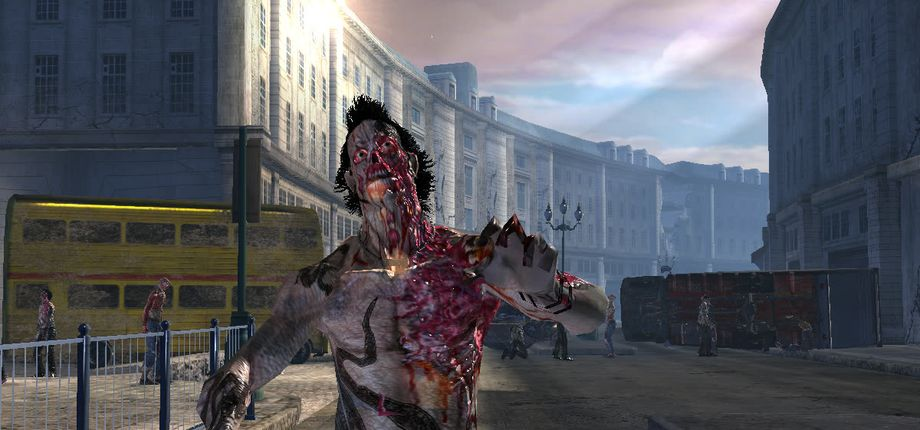
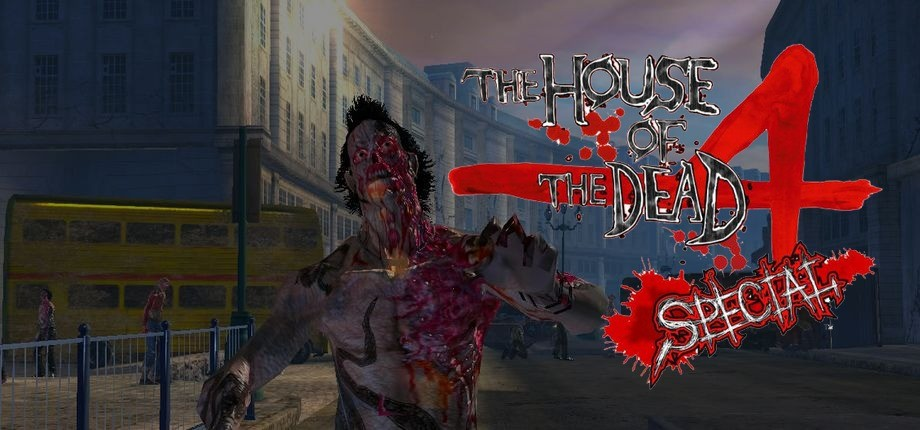
fix: SteamGridDB and arcade art for the five new port covers
The first covers were crops of screenshots, a launcher banner and a
trailer frame. Replace them with real capsule art:

- Ratchet & Clank, Forsaken, NFL Blitz 2000: SteamGridDB 920x430 capsules
  with no console branding
- Let's Go Jungle!: not on SteamGridDB; LaunchBox fanart with the game's
  clear logo
- HotD4 Special: the game's own Special logo (LaunchBox) over an in-game
  street scene, so it does not repeat the hotd4-vr cover

Same filenames, so COVER_CACHE_VERSION goes from 7 to 8.

diff --git a/tests/coverUrl.test.ts b/tests/coverUrl.test.ts
@@ -65,29 +65,29 @@ describe('resolveCoverUrl', () => {
 
 describe('coverThumbUrl', () => {
   it('points local covers at a small generated thumbnail', () => {
-    expect(coverThumbUrl('/covers/doom3quest.jpg')).toBe('/covers/thumbs/doom3quest.jpg?v=7')
-    expect(coverThumbUrl('/covers/halocequest.jpg')).toBe('/covers/thumbs/halocequest.jpg?v=7')
+    expect(coverThumbUrl('/covers/doom3quest.jpg')).toBe('/covers/thumbs/doom3quest.jpg?v=8')
+    expect(coverThumbUrl('/covers/halocequest.jpg')).toBe('/covers/thumbs/halocequest.jpg?v=8')
   })
 
   it('versions covers and can load them from an external media base', () => {
-    expect(versionedCoverUrl('/covers/nolf-vr.png')).toBe('/covers/nolf-vr.png?v=7')
+    expect(versionedCoverUrl('/covers/nolf-vr.png')).toBe('/covers/nolf-vr.png?v=8')
     expect(versionedCoverUrl(
       'https://ccjteoxolasldhfgnoyx.supabase.co/storage/v1/object/public/port-covers/nolf-vr.png'
-    )).toBe('/covers/nolf-vr.png?v=7')
+    )).toBe('/covers/nolf-vr.png?v=8')
     expect(versionedCoverUrl('/covers/nolf-vr.png', 'https://cdn.example.com/')).toBe(
-      'https://cdn.example.com/covers/nolf-vr.png?v=7'
+      'https://cdn.example.com/covers/nolf-vr.png?v=8'
     )
     expect(coverThumbUrl('/covers/doom3quest.jpg', 'https://cdn.example.com')).toBe(
-      'https://cdn.example.com/covers/thumbs/doom3quest.jpg?v=7'
+      'https://cdn.example.com/covers/thumbs/doom3quest.jpg?v=8'
     )
   })
 
   it('keeps absolute media-host covers versioned without double-prefixing', () => {
     const db = `${DEFAULT_MEDIA_BASE}/covers/doom3quest.jpg`
-    expect(versionedCoverUrl(db, DEFAULT_MEDIA_BASE)).toBe(`${DEFAULT_MEDIA_BASE}/covers/doom3quest.jpg?v=7`)
-    expect(versionedCoverUrl(db)).toBe('/covers/doom3quest.jpg?v=7')
-    expect(coverThumbUrl(db, DEFAULT_MEDIA_BASE)).toBe(`${DEFAULT_MEDIA_BASE}/covers/thumbs/doom3quest.jpg?v=7`)
-    expect(absoluteCoverUrl(db)).toBe('https://questports.com/covers/doom3quest.jpg?v=7')
+    expect(versionedCoverUrl(db, DEFAULT_MEDIA_BASE)).toBe(`${DEFAULT_MEDIA_BASE}/covers/doom3quest.jpg?v=8`)
+    expect(versionedCoverUrl(db)).toBe('/covers/doom3quest.jpg?v=8')
+    expect(coverThumbUrl(db, DEFAULT_MEDIA_BASE)).toBe(`${DEFAULT_MEDIA_BASE}/covers/thumbs/doom3quest.jpg?v=8`)
+    expect(absoluteCoverUrl(db)).toBe('https://questports.com/covers/doom3quest.jpg?v=8')
     // A value that already went through versionedCoverUrl stays stable.
     const once = versionedCoverUrl(db, DEFAULT_MEDIA_BASE)
     expect(versionedCoverUrl(once, DEFAULT_MEDIA_BASE)).toBe(once)
@@ -103,19 +103,19 @@ describe('coverThumbUrl', () => {
 describe('absoluteCoverUrl', () => {
   it('prefixes local covers for Open Graph', () => {
     expect(absoluteCoverUrl('/covers/nolf-vr.png')).toBe(
-      'https://questports.com/covers/nolf-vr.png?v=7'
+      'https://questports.com/covers/nolf-vr.png?v=8'
     )
   })
 
   it('keeps Open Graph covers on the site even when the file is on the media host', () => {
     expect(absoluteCoverUrl(`${DEFAULT_MEDIA_BASE}/covers/nolf-vr.png?v=9`)).toBe(
-      'https://questports.com/covers/nolf-vr.png?v=7'
+      'https://questports.com/covers/nolf-vr.png?v=8'
     )
   })
 
   it('falls back to the cache-busted site card', () => {
     expect(absoluteCoverUrl(null)).toBe(
-      'https://questports.com/covers/questports-og.png?v=7'
+      'https://questports.com/covers/questports-og.png?v=8'
     )
   })
 })

diff --git a/tests/social-meta.test.ts b/tests/social-meta.test.ts
@@ -46,7 +46,7 @@ describe('site-wide social preview', () => {
     expect(tags['og:image']).toBe(OG_IMAGE_URL)
     expect(tags['og:image:secure_url']).toBe(OG_IMAGE_URL)
     expect(tags['twitter:image']).toBe(OG_IMAGE_URL)
-    expect(OG_IMAGE_URL).toBe('https://questports.com/covers/questports-og.png?v=7')
+    expect(OG_IMAGE_URL).toBe('https://questports.com/covers/questports-og.png?v=8')
     expect(tags['og:image:width']).toBe(OG_IMAGE_WIDTH)
     expect(tags['og:image:height']).toBe(OG_IMAGE_HEIGHT)
     expect(tags['og:image:width']).toBe('1200')
@@ -81,7 +81,7 @@ describe('per-port social description', () => {
 
   it('keeps each port on its own cover', () => {
     const halo = portShareMeta('/covers/halocequest.jpg', 'Halo CE Quest VR')
-    expect(halo.image).toBe('https://questports.com/covers/halocequest.jpg?v=7')
+    expect(halo.image).toBe('https://questports.com/covers/halocequest.jpg?v=8')
     expect(halo.type).toBe('image/jpeg')
     expect(halo.width).toBeNull()
     expect(halo.height).toBeNull()
@@ -89,7 +89,7 @@ describe('per-port social description', () => {
     expect(halo.description).toContain('Install in one click from your browser.')
 
     const png = portShareMeta('/covers/nolf-vr.png', 'No One Lives ForeVR')
-    expect(png.image).toBe('https://questports.com/covers/nolf-vr.png?v=7')
+    expect(png.image).toBe('https://questports.com/covers/nolf-vr.png?v=8')
     expect(png.type).toBe('image/png')
     expect(png.width).toBeNull()
 

diff --git a/app/data/coverUrl.ts b/app/data/coverUrl.ts
@@ -4,7 +4,7 @@ const SITE_ORIGIN = 'https://questports.com'
 export const DEFAULT_MEDIA_BASE = 'https://questports-media.questports.workers.dev'
 const DEFAULT_OG = '/covers/questports-og.png'
 /** Bump when a cover file changes. Paired with a year-long immutable cache. */
-export const COVER_CACHE_VERSION = '7'
+export const COVER_CACHE_VERSION = '8'
 /** Cache-busted absolute URL for the site-wide 1200×630 share card. */
 export const DEFAULT_OG_URL = `${SITE_ORIGIN}${DEFAULT_OG}?v=${COVER_CACHE_VERSION}`
 /** SteamGridDB grid ids that stay hotlinked in the database, served from /covers. */
